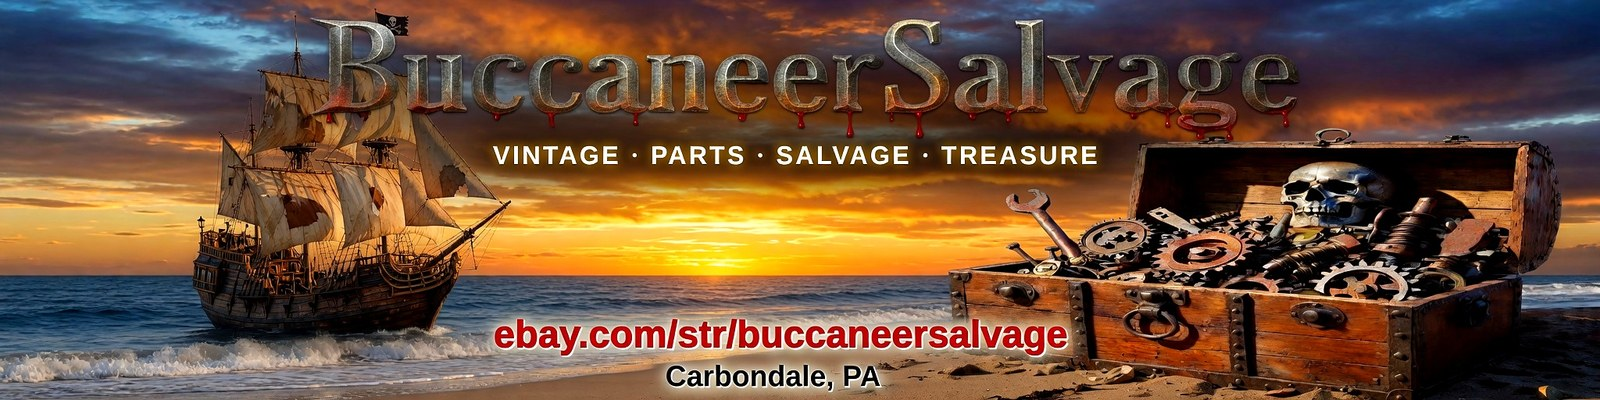
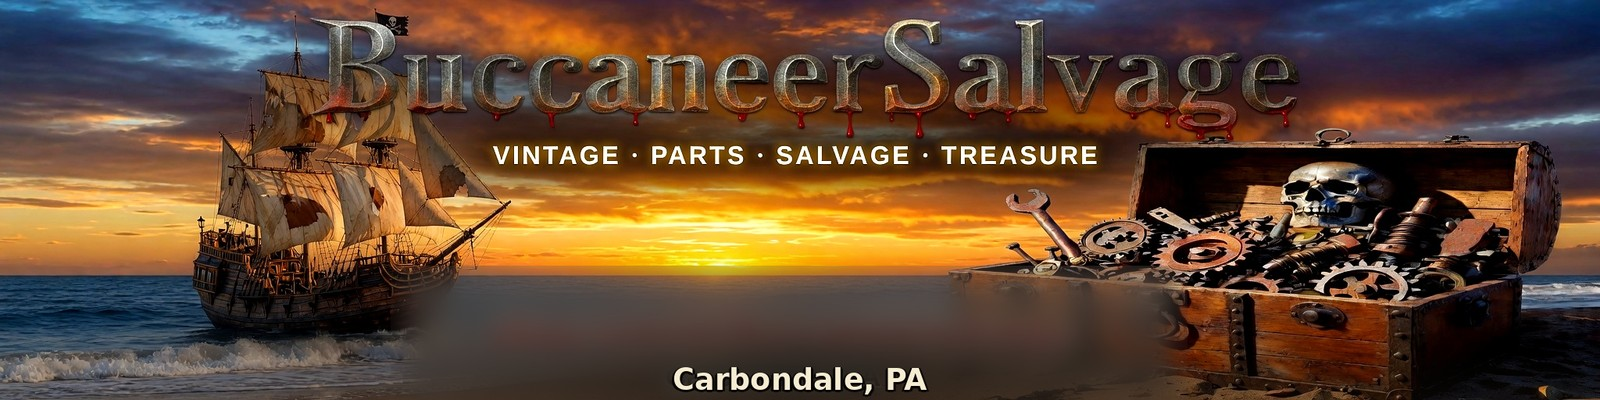
Sync BuccaneerSalvage hub + Ukiri from local sites
Hub: ~/sites/buccaneersalvage-hub → /
Ukiri: ~/sites/ukirithief → /ukiri/

Changed region(s): [[0.0, 0.66, 0.875, 1.0]]

diff --git a/store.html b/store.html
@@ -131,7 +131,7 @@
     <section class="st-ebay-banner" aria-label="eBay Store">
       <div class="shell">
         <a class="st-banner-link" href="https://www.ebay.com/str/buccaneersalvage" target="_blank" rel="noopener noreferrer" title="Visit BuccaneerSalvage on eBay">
-          <img class="st-banner-image" src="assets/ebay-banner-wide.jpg" alt="BuccaneerSalvage eBay store — more listings" width="1600" height="400" decoding="async" loading="lazy" />
+          <img class="st-banner-image" src="assets/ebay-banner-nocite.jpg" alt="BuccaneerSalvage eBay store — more listings" width="1600" height="400" decoding="async" loading="lazy" />
         </a>
       </div>
     </section>
